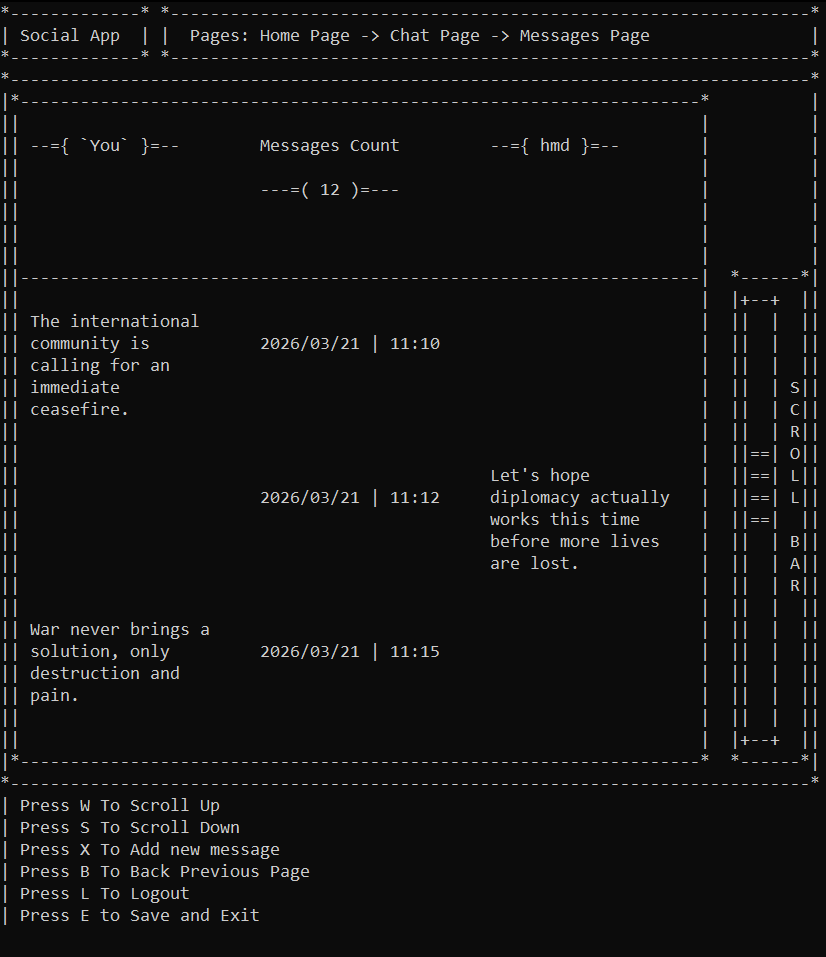
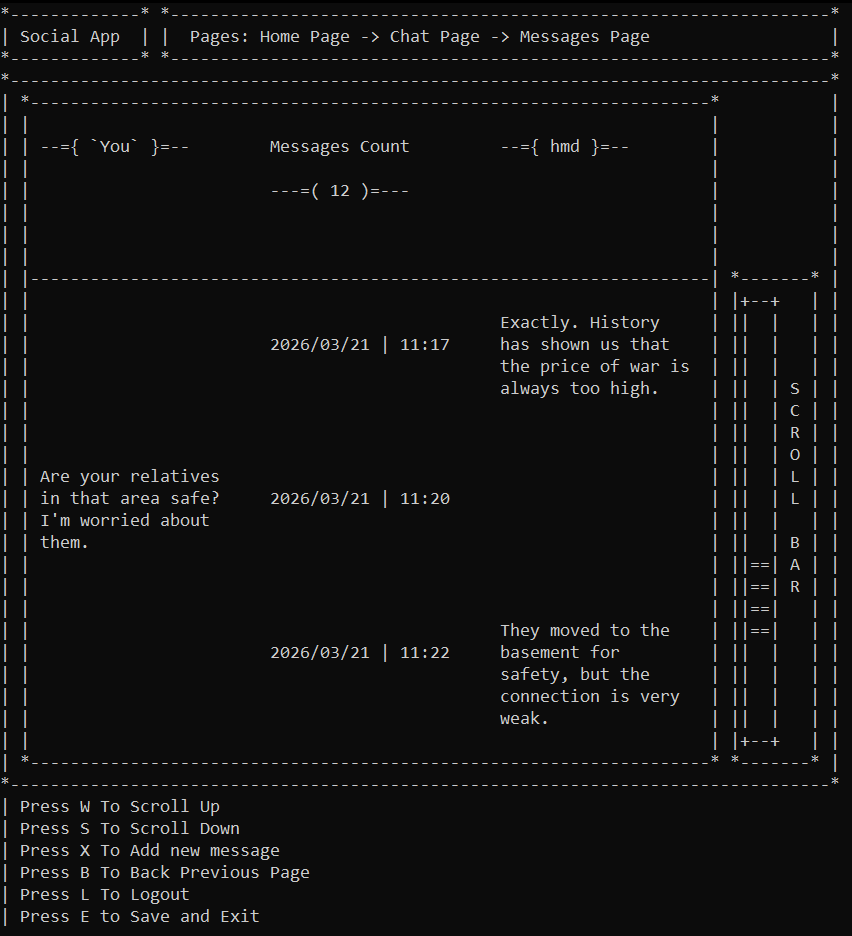
minor changes: Text Grid Wrapping Logic

diff --git a/src/Forms/clsMainForm.cs b/src/Forms/clsMainForm.cs
@@ -1,4 +1,5 @@
 using Grids;
+using SocialApp.HelperTools;
 
 namespace SocialApp.Forms
 {
@@ -10,28 +11,26 @@ namespace SocialApp.Forms
         int[] Rows = { 0, 8, 15, 22 };
         int[] Cols = { 0, 23, 46 };
 
-        public clsTextGrid AppNameContentGrid { get; } = new clsTextGrid(11, 1, new stPaddingInfo(2, 1, 2, 1));
-        public clsTextGrid PageStackContentGrid { get; } = new clsTextGrid(60, 1, new stPaddingInfo(3, 1, 3, 1));
+        private clsTextGrid AppNameContentGrid { get; } = new clsTextGrid(11, 1, new stPaddingInfo(2, 1, 2, 1));
+        private clsTextGrid PageStackContentGrid { get; } = new clsTextGrid(62, 1, new stPaddingInfo(3, 1, 3, 1));
 
-        clsHorizontalLineGrid Line = new clsHorizontalLineGrid(68);
+        private clsGridManager PageGridManager { get; } = new clsGridManager(68, 29, new stPaddingInfo(1, 1, 1, 1));
+        private clsGridManager HeaderBarManager { get; } = new clsGridManager(84, 3, new stPaddingInfo(0, 0, 0, 0));
+        private clsGridManager ScrollBarManager { get; } = new clsGridManager(7, 21, new stPaddingInfo(1, 1, 1, 1));
+        private clsGridManager CenterGridManager { get; } = new clsGridManager(82, 31, new stPaddingInfo(1, 1, 1, 1));
+
+        private clsTextGrid[] ContentGrids { get; } = new clsTextGrid[12];
+
+        private clsVerticalScrollBarGrid PageScrollBar { get; } = new clsVerticalScrollBarGrid(2, 19, '=');
+        private clsVerticalContentGrid ScrollBarText { get; } = new clsVerticalContentGrid(17);
+
+        private clsHorizontalLineGrid Line { get; } = new clsHorizontalLineGrid(68);
 
 
-        public clsGridManager PageGridManager { get; } = new clsGridManager(68, 29, new stPaddingInfo(1, 1, 1, 1));
-        public clsGridManager HeaderBarManager { get; } = new clsGridManager(82, 3, new stPaddingInfo(0, 0, 0, 0));
-        public clsGridManager ScrollBarManager { get; } = new clsGridManager(6, 21, new stPaddingInfo(1, 1, 1, 1));
-        public clsGridManager CenterGridManager { get; } = new clsGridManager(80, 31, new stPaddingInfo(1, 1, 1, 1));
 
-        public clsTextGrid[] ContentGrids { get; } = new clsTextGrid[12];
-
-        public clsVerticalScrollBarGrid PageScrollBar { get; } = new clsVerticalScrollBarGrid(2, 19, '=');
-        public clsVerticalContentGrid ScrollBarText { get; } = new clsVerticalContentGrid(17);
-
-      
-
-        private void InitializeForm(bool isLazyLoading = true)
+        private void InitializeComponent(bool isLazyLoading = true)
         {
             IsLazyLoading = isLazyLoading;
-
 
             HeaderBarManager.AddGrid(new stGridInfo(AppNameContentGrid, new stPoint(0, 0)));
             Print([HeaderBarManager]);
@@ -39,70 +38,79 @@ namespace SocialApp.Forms
             HeaderBarManager.AddGrid(new stGridInfo(PageStackContentGrid, new stPoint(16, 0)));
             Print([HeaderBarManager]);
 
-            AppNameContentGrid.Text = "Social App";
-            Print([HeaderBarManager]);
-
             for (int i = 0; i < ContentGrids.Length; i++)
             {
                 ContentGrids[i] = new clsTextGrid(20, 5, new stPaddingInfo(1, 1, 1, 1));
             }
 
-            PageGridManager.AddGrid(new stGridInfo(Line, new stPoint(0, 7)));
-
             Print([HeaderBarManager, CenterGridManager]);
 
-            CenterGridManager.AddGrid(new stGridInfo(PageGridManager, new stPoint(0, 0)));
-            Print([HeaderBarManager, CenterGridManager], 300);
+            CenterGridManager.AddGrid(new stGridInfo(PageGridManager, new stPoint(1, 0)));
+            Print([HeaderBarManager, CenterGridManager]);
+
+            PageGridManager.AddGrid(new stGridInfo(Line, new stPoint(0, 7)));
+            Print([HeaderBarManager, CenterGridManager]);
 
             for (int row = 0, count = 0; row < Rows.Length; row++)
             {
                 for (int col = 0; col < Cols.Length; col++, count++)
                 {
-                    Print([HeaderBarManager, CenterGridManager]);
                     PageGridManager.AddGrid(new stGridInfo(ContentGrids[count], new stPoint(Cols[col], Rows[row])));
+                    Print([HeaderBarManager, CenterGridManager]);
                 }
             }
-            Print([HeaderBarManager, CenterGridManager]);
 
             PageScrollBar.SetScrollBarInformation(0, 0, 0);
 
- 
+
             CenterGridManager.AddGrid(new stGridInfo(ScrollBarManager, new stPoint(72, 8)));
-            Print([HeaderBarManager, CenterGridManager], 300);
+            Print([HeaderBarManager, CenterGridManager]);
 
-
-            ScrollBarManager.AddGrid(new stGridInfo(PageScrollBar, new stPoint(0, 0)));
-            Print([HeaderBarManager, CenterGridManager], 300);
-
-
-            ScrollBarText.Text = $"S C R O L L {clsCustomTags.InvisibleChar} B A R";
             ScrollBarManager.AddGrid(new stGridInfo(ScrollBarText, new stPoint(5, 4)));
+            ScrollBarManager.AddGrid(new stGridInfo(PageScrollBar, new stPoint(0, 0)));
 
-            HeaderBarManager.Print();
-            CenterGridManager.Print();
-            Thread.Sleep(800);
 
-            for(int i = 0; i < 5; i++)
+            if (isLazyLoading)
             {
-                Console.WriteLine("| Press ? To `???`");
-                Thread.Sleep(200);
+                PrintFinalSkeleton();
             }
-          
-            Thread.Sleep(800);
+
+            AfterComponentInitialization();
         }
 
-        private void Print(absBaseGrid[] grids, int sleepMS = 160)
+        private void Print(absBaseGrid[] grids)
         {
             if (!IsLazyLoading) return;
             Console.Clear();
 
-            foreach(absBaseGrid grid in grids)
+            foreach (absBaseGrid grid in grids)
             {
                 grid.Print();
             }
 
-            Thread.Sleep(sleepMS);
+            Thread.Sleep(300);
         }
 
+        private void PrintFinalSkeleton()
+        {
+            Console.Clear();
+            HeaderBarManager.Print();
+            CenterGridManager.Print();
+            Thread.Sleep(800);
+
+            for (int i = 0; i < 5; i++)
+            {
+                Console.WriteLine("| Press ? To `???`");
+                Thread.Sleep(200);
+            }
+
+            Thread.Sleep(800);
+        }
+
+        private void PrintComponents()
+        {
+            HeaderBarManager.Print();
+            CenterGridManager.Print();
+        }
     }
 }

diff --git a/src/Controllers/clsMainForm.cs b/src/Controllers/clsMainForm.cs
@@ -6,14 +6,13 @@ using SocialApp.Pages.Abstractions;
 
 namespace SocialApp.Forms
 {
-    public partial class clsMainForm
+    public partial class clsMainForm : IForm
     {
-        public clsAppState AppState { get; }
-        public clsNavigationController NavigationController { get; }
-
+        private clsAppState AppState { get; }
+        private clsNavigationController NavigationController { get; }
         public clsMainForm(clsAppState appState, clsNavigationController navigationController)
         {
-            InitializeForm(false);
+            InitializeComponent();
 
             NavigationController = navigationController;
             AppState = appState;
@@ -22,13 +21,22 @@ namespace SocialApp.Forms
         public void Print()
         {
             Console.Clear();
-            RefreshForm();
-            HeaderBarManager.Print();
-            CenterGridManager.Print();
+            RefreshComponents();
+            PrintComponents();
             PrintControlKeys();
         }
+        private void AfterComponentInitialization()
+        {
+            SetDefaultValues();
+        }
 
-        protected void RefreshForm()
+        private void SetDefaultValues()
+        {
+            AppNameContentGrid.Text = "Social App";
+            ScrollBarText.Text = $"SCROLL {clsCustomTags.InvisibleChar} BAR";
+        }
+
+        private void RefreshComponents()
         {
             DisableContentGridsBorder();
 
@@ -38,13 +46,13 @@ namespace SocialApp.Forms
             UpdateScrollBar();
         }
 
-        protected void UpdatePagesStackGrid()
+        private void UpdatePagesStackGrid()
         {
             var pagesName = NavigationController.GetPagesNames();
             PageStackContentGrid.Text = "Pages: " + string.Join(" -> ", pagesName);
         }
 
-        protected void PrintControlKeys()
+        private void PrintControlKeys()
         {
             absBasePage currentPage = NavigationController.GetCurrentPage();
 
@@ -74,7 +82,7 @@ namespace SocialApp.Forms
             }
         }
 
-        protected void DisableContentGridsBorder()
+        private void DisableContentGridsBorder()
         {
             for (int i = 0; i < ContentGrids.Length; i++)
             {
@@ -82,7 +90,7 @@ namespace SocialApp.Forms
             }
         }
 
-        protected void UpdateContentGrids()
+        private void UpdateContentGrids()
         {
             absBasePage currentPage = NavigationController.GetCurrentPage();
             currentPage.ResetContent();
@@ -94,7 +102,7 @@ namespace SocialApp.Forms
             }
         }
 
-        protected void UpdateScrollBar()
+        private void UpdateScrollBar()
         {
             ScrollBarManager.Visible = false;
 
@@ -106,7 +114,7 @@ namespace SocialApp.Forms
             ScrollBarManager.Visible = PageScrollBar.IsScrollBarNeeded();
         }
 
-        protected void UpdateSelectedContentGrid()
+        private void UpdateSelectedContentGrid()
         {
             if (NavigationController.GetCurrentPage() is not absScrollSelection page)
                 return;

diff --git a/Grids_Lib/Grids/clsTextGrid.cs b/Grids_Lib/Grids/clsTextGrid.cs
@@ -58,7 +58,7 @@ namespace Grids
                     continue;
                 }
 
-                HandleLongWordHyphen(ref currentWidth, ref currentHeight, word, wordIndex);
+               // HandleLongWordHyphen(ref currentWidth, ref currentHeight, word, wordIndex);
 
                 if (currentHeight < ContentBoardHeight)
                 {
@@ -99,18 +99,18 @@ namespace Grids
             return false;
         }
 
-        private void HandleLongWordHyphen(ref int currentWidth, ref int currentHeight, string word, int wordIndex)
-        {
-            if (currentWidth + 1 == ContentBoardWidth && wordIndex + 1 < word.Length && word[wordIndex] != ' ')
-            {
-                if (wordIndex > 0)
-                {
-                    ContentBoard[currentHeight][currentWidth] = '-';
-                }
+        //private void HandleLongWordHyphen(ref int currentWidth, ref int currentHeight, string word, int wordIndex)
+        //{
+        //    if (currentWidth + 1 == ContentBoardWidth && wordIndex + 1 < word.Length && word[wordIndex] != ' ')
+        //    {
+        //        if (wordIndex > 0)
+        //        {
+        //            ContentBoard[currentHeight][currentWidth] = '-';
+        //        }
 
-                StartFromNextLine(ref currentWidth, ref currentHeight);
-            }
-        }
+        //        StartFromNextLine(ref currentWidth, ref currentHeight);
+        //    }
+        //}
 
         private void StartFromNextLine(ref int currentWidth, ref int currentHeight)
         {

diff --git a/src/Controllers/clsPageController.cs b/src/Controllers/clsPageController.cs
@@ -9,25 +9,25 @@ namespace SocialApp.Controllers
     public class clsPageController
     {
         public clsPageController(
-            clsNavigationController navigationController,
-            clsMainForm mainForm,
-            clsInputController inputController
+            IForm mainForm,
+            clsInputController inputController,
+            clsNavigationController navigationController
             )
         {
-            NavigationController = navigationController;
-            MainForm = mainForm;
+            Form = mainForm;
             InputController = inputController;
+            NavigationController = navigationController;
         }
 
-        protected clsNavigationController NavigationController { get; }
-        protected clsMainForm MainForm { get; }
+        protected IForm Form { get; }
         protected clsInputController InputController { get; }
+        protected clsNavigationController NavigationController { get; }
 
         public void Start()
         {
             while (NavigationController.GetCurrentStackCount() > 0)
             {
-                MainForm.Print();
+                Form.Print();
                 InputController.TakeAction();
             }
         }

diff --git a/src/Program.cs b/src/Program.cs
@@ -48,9 +48,9 @@ authenticationPage.AddAction(registerAction);
 authenticationPage.AddAction(visitAsGuestAction);
 
 clsNavigationController navigationController = new clsNavigationController(appState);
-clsMainForm renderController = new clsMainForm(appState, navigationController);
+IForm form = new clsMainForm(appState, navigationController);
 clsInputController inputController = new clsInputController(appState, navigationController, serviceCollection);
-clsPageController pageController = new clsPageController(navigationController, renderController, inputController);
+clsPageController pageController = new clsPageController(form, inputController, navigationController);
 
 navigationController.SetMainPage(homePage);
 navigationController.SetAuthenticationPage(authenticationPage);

diff --git a/src/Forms/IForm.cs b/src/Forms/IForm.cs
@@ -1,0 +1,13 @@
+using System;
+using System.Collections.Generic;
+using System.Linq;
+using System.Text;
+using System.Threading.Tasks;
+
+namespace SocialApp.Forms
+{
+    public interface IForm
+    {
+        void Print();
+    }
+}
